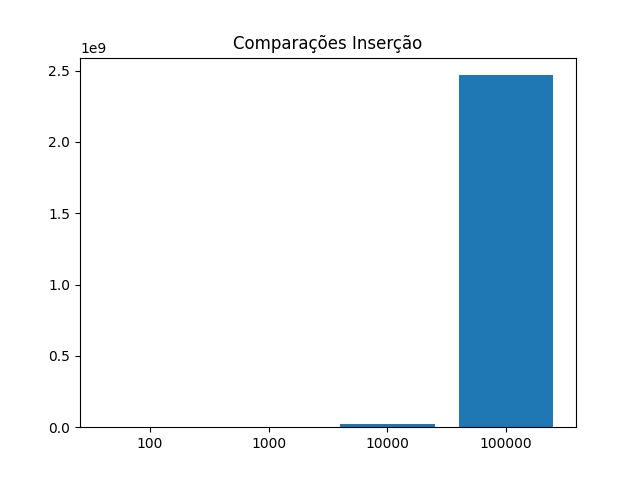
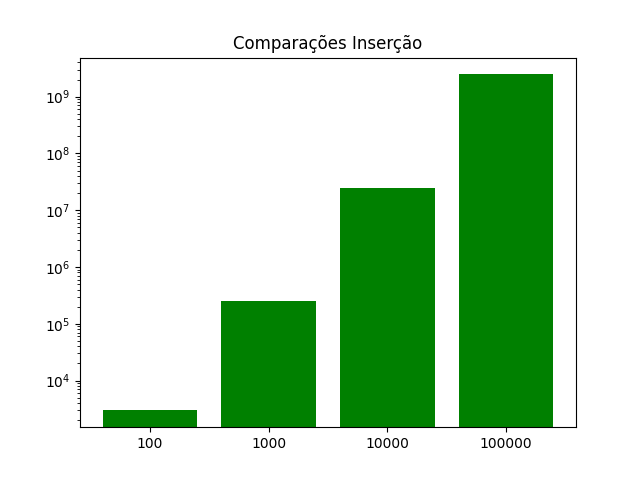
Graficos feitos

diff --git a/terceiroPeriodo/aeds-ii/tps/tp-ii/ex19/geraGraficos.py b/terceiroPeriodo/aeds-ii/tps/tp-ii/ex19/geraGraficos.py
@@ -4,10 +4,139 @@ matplotlib.use('Agg')
 
 import matplotlib.pyplot as plt
 
+titulosAlgoritmos = ["Seleção", "Inserção", "Bubble","Quicksort"]
+algoritmo = ['selecao', 'insercao', 'bubble', 'quicksort']
+cores = ['blue', 'green', 'orange', 'red']
 labels = ['100', '1000', '10000', '100000']
-valores = [0, 5, 65, 4439]
+titulos = ["Comparações ", "Movimentações ", "Tempo(ms) "]
+minititulos = ["comparacoes", "movimentacoes", "tempo"]
 
-plt.bar(labels, valores)
-plt.title('Tempo(ms) Inserção')
-plt.savefig("tempo_insercao.png")
+def geraGraficosGerais():
+    for i in range(0,4,1):
+        f1 = open('../'+ algoritmo[i] + '_array'+ labels[0] +'.txt')
+        f2 = open('../'+ algoritmo[i] + '_array'+ labels[1] +'.txt')
+        f3 = open('../'+ algoritmo[i] + '_array'+ labels[2] +'.txt')
+        f4 = open('../'+ algoritmo[i] + '_array'+ labels[3] +'.txt')
+
+        line1 = f1.readline()
+        line2 = f2.readline()
+        line3 = f3.readline()
+        line4 = f4.readline()
+
+        f1Content = line1.split()
+        f2Content = line2.split()
+        f3Content = line3.split()
+        f4Content = line4.split()
+
+        for j in range(0,3,1):
+            valores = [int(f1Content[j]), int(f2Content[j]), int(f3Content[j]), int(f4Content[j])]
+
+            plt.bar(labels, valores, color=cores[i])
+            plt.yscale('log')
+            plt.title(titulos[j] + titulosAlgoritmos[i])
+            plt.savefig(minititulos[j] + '_' + algoritmo[i] +'.png')
+            plt.clf()
+
+        f1.close()
+        f2.close()
+        f3.close()
+        f4.close()
+
+def geraComparacoes():
+    for i in range(0,4,1):
+        f1 = open('../'+ algoritmo[0] + '_array'+ labels[i] +'.txt')
+        f2 = open('../'+ algoritmo[1] + '_array'+ labels[i] +'.txt')
+        f3 = open('../'+ algoritmo[2] + '_array'+ labels[i] +'.txt')
+        f4 = open('../'+ algoritmo[3] + '_array'+ labels[i] +'.txt')
+
+        line1 = f1.readline()
+        line2 = f2.readline()
+        line3 = f3.readline()
+        line4 = f4.readline()
+
+        f1Content = line1.split()
+        f2Content = line2.split()
+        f3Content = line3.split()
+        f4Content = line4.split()
+
+        for j in range(0,4,1):
+            valores = [int(f1Content[0]),int(f2Content[0]),int(f3Content[0]),int(f4Content[0])]
+            plt.bar(titulosAlgoritmos,valores,color=['blue','green','orange','red'])
+            plt.yscale('linear')
+            plt.title('Comparações Algoritmos ' + labels[i])
+            plt.savefig('comparacoes_gerais' + labels[i] +'.png')
+            plt.clf()
+
+        f1.close()
+        f2.close()
+        f3.close()
+        f4.close()
+
+def geraMovimentacoes():
+    for i in range(0,4,1):
+        f1 = open('../'+ algoritmo[0] + '_array'+ labels[i] +'.txt')
+        f2 = open('../'+ algoritmo[1] + '_array'+ labels[i] +'.txt')
+        f3 = open('../'+ algoritmo[2] + '_array'+ labels[i] +'.txt')
+        f4 = open('../'+ algoritmo[3] + '_array'+ labels[i] +'.txt')
+
+        line1 = f1.readline()
+        line2 = f2.readline()
+        line3 = f3.readline()
+        line4 = f4.readline()
+
+        f1Content = line1.split()
+        f2Content = line2.split()
+        f3Content = line3.split()
+        f4Content = line4.split()
+
+        for j in range(0,4,1):
+            valores = [int(f1Content[1]),int(f2Content[1]),int(f3Content[1]),int(f4Content[1])]
+            plt.bar(titulosAlgoritmos,valores,color=['blue','green','orange','red'])
+            plt.yscale('linear')
+            plt.title('Movimentações Algoritmos ' + labels[i])
+            plt.savefig('movimentacoes_gerais' + labels[i] +'.png')
+            plt.clf()
+
+        f1.close()
+        f2.close()
+        f3.close()
+        f4.close()
+
+def geraTempo():
+    for i in range(0,4,1):
+        f1 = open('../'+ algoritmo[0] + '_array'+ labels[i] +'.txt')
+        f2 = open('../'+ algoritmo[1] + '_array'+ labels[i] +'.txt')
+        f3 = open('../'+ algoritmo[2] + '_array'+ labels[i] +'.txt')
+        f4 = open('../'+ algoritmo[3] + '_array'+ labels[i] +'.txt')
+
+        line1 = f1.readline()
+        line2 = f2.readline()
+        line3 = f3.readline()
+        line4 = f4.readline()
+
+        f1Content = line1.split()
+        f2Content = line2.split()
+        f3Content = line3.split()
+        f4Content = line4.split()
+
+        for j in range(0,4,1):
+            valores = [int(f1Content[2]),int(f2Content[2]),int(f3Content[2]),int(f4Content[2])]
+            plt.bar(titulosAlgoritmos,valores,color=['blue','green','orange','red'])
+            plt.yscale('linear')
+            plt.title('Tempo(ms) Algoritmos ' + labels[i])
+            plt.savefig('tempo_gerais' + labels[i] +'.png')
+            plt.clf()
+
+        f1.close()
+        f2.close()
+        f3.close()
+        f4.close()
+
+
+
+geraGraficosGerais()
+geraComparacoes()
+geraMovimentacoes()
+geraTempo()
+
 

diff --git a/terceiroPeriodo/aeds-ii/tps/tp-ii/ex19/Quicksort.java b/terceiroPeriodo/aeds-ii/tps/tp-ii/ex19/Quicksort.java
@@ -1,0 +1,100 @@
+package ex19;
+
+import java.util.Random;
+
+import java.io.File;
+import java.io.FileWriter;
+import java.io.FileNotFoundException;
+import java.io.IOException;
+
+public class Quicksort{
+	public static void preencheArray(Integer array[], int len){
+		Random random = new Random();
+		random.setSeed(4);
+
+		for(int i = 0; i < len; i++){
+			array[i] = (Math.abs(random.nextInt()) % 100) + 1;
+		}
+
+	}
+
+	public static void swap(Integer[] array, Integer a, Integer b){
+		Integer aux = array[a];
+		array[a] = array[b];
+		array[b] = aux;
+	}
+
+	public static void quicksortrec(Integer[] array, Integer esq, Integer dir,long[] mov, long[] comp){
+		Integer i = esq;
+		Integer j = dir;
+		Integer pivo = array[(esq + dir) / 2];
+		while(i <= j){
+			while(array[i] < pivo){
+				comp[0]++;
+				i++;
+			}
+			comp[0]++;
+			while(array[j] > pivo){
+				comp[0]++;
+				j--;
+			}
+			comp[0]++;
+			if(i <= j){
+				mov[0]++;
+				swap(array,i,j);
+				i++;
+				j--;
+			}
+		}
+		if(j > esq){
+			quicksortrec(array,esq,j,mov,comp);
+		}
+		if(dir > i){
+			quicksortrec(array,i,dir,mov,comp);
+		}
+	}
+	public static void quicksort(Integer[] array, Integer len, File arquivo){
+		try(FileWriter fw = new FileWriter(arquivo)){
+			
+			long inicio = System.currentTimeMillis();
+			long[] mov = {0};
+			long[] comp = {0};
+
+			quicksortrec(array,0,len - 1, mov, comp);
+
+			long fim = System.currentTimeMillis();
+			long duracao = fim - inicio;
+
+			fw.write(comp[0] + "\t" + mov[0] + "\t" + duracao);
+			fw.flush();
+			fw.close();
+			
+		}catch(IOException e){
+			e.printStackTrace();
+		}
+	}
+
+	public static void main(String[] args){
+
+
+		File file100 = new File("./quicksort_array100.txt");
+		File file1000 = new File("./quicksort_array1000.txt");
+		File file10000 = new File("./quicksort_array10000.txt");
+		File file100000 = new File("./quicksort_array100000.txt");
+
+		Integer array100[] = new Integer[100];
+		Integer array1000[] = new Integer[1000];
+		Integer array10000[] = new Integer[10000];
+		Integer array100000[] = new Integer[100000];
+
+		preencheArray(array100,100);
+		preencheArray(array1000,1000);
+		preencheArray(array10000,10000);
+		preencheArray(array100000,100000);
+
+		quicksort(array100, 100, file100);
+		quicksort(array1000, 1000, file1000);
+		quicksort(array10000, 10000, file10000);
+		quicksort(array100000, 100000, file100000);
+	}
+}

diff --git a/terceiroPeriodo/aeds-ii/tps/tp-ii/ex19/Selecao.java b/terceiroPeriodo/aeds-ii/tps/tp-ii/ex19/Selecao.java
@@ -13,7 +13,7 @@ public class Selecao{
 		random.setSeed(4);
 
 		for(int i = 0; i < len; i++){
-			array[i] = random.nextInt();
+			array[i] = Math.abs(random.nextInt() % 100) + 1;
 		}
 
 	}

diff --git a/terceiroPeriodo/aeds-ii/tps/tp-ii/ex05/Ex05.java b/terceiroPeriodo/aeds-ii/tps/tp-ii/ex05/Ex05.java
@@ -1,4 +1,4 @@
-// package ex05;
+package ex05;
 
 import java.util.Scanner;
 import java.io.File;
